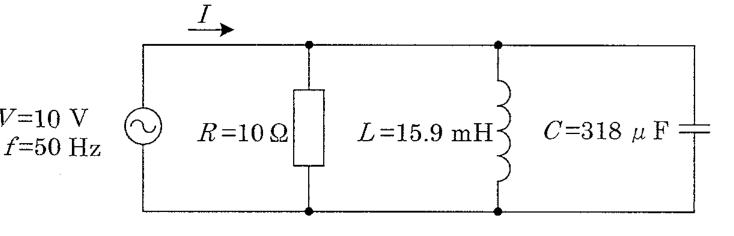
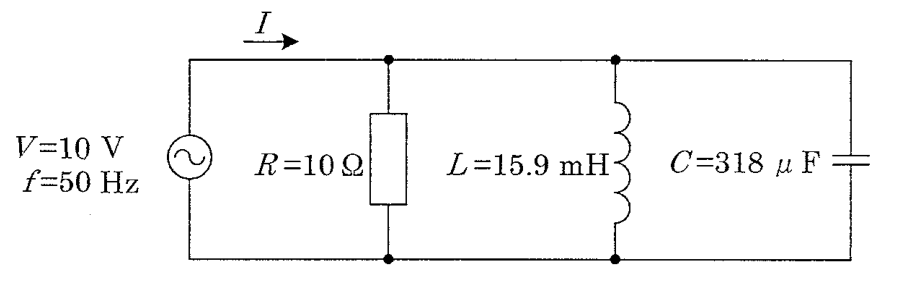
工場板金と金属熱処理の原文7問と回路図2点を修正

Changed region(s): [[0.0, 0.0, 0.9891, 0.9195]]

diff --git a/__tests__/questions/kinzoku-netsushori2-2024.test.ts b/__tests__/questions/kinzoku-netsushori2-2024.test.ts
@@ -32,7 +32,7 @@ describe("金属熱処理2級2024年度前期", () => {
     });
     expect(choiceDisplayLabel("kinzoku-netsushori2", "エ")).toBe("ニ");
   });
-  it("図3点と公式正答に疑義があるB群6の本文・正答を保持する", () => {
+  it("図3点と原本PDF4ページのB群6の選択肢・正答を保持する", () => {
     expect(questions.filter(q => q.hasImage).map(q => q.qNumber)).toEqual([41, 48, 49]);
     for (const q of questions) for (const url of q.imageUrls ?? []) {
       const bytes = readFileSync(`public${url}`);
@@ -40,8 +40,9 @@ describe("金属熱処理2級2024年度前期", () => {
       expect(bytes.subarray(8, 12).toString()).toBe("WEBP");
     }
     expect(questions[30].officialAnswerNumber).toBe("ハ");
-    expect(questions[30].choices?.エ).toBe("処理後、水冷によって硬化する。");
-    expect(questions[30].explanation).toContain("公式本文・公式正答を保持");
+    expect(questions[30].choices?.ウ).toBe("アルミニウムやクロムよりもニッケルやコバルトを含む鋼の方が硬化する。");
+    expect(questions[30].choices?.エ).toBe("窒化処理後、焼戻しを必要としない。");
+    expect(questions[30].answer).toBe("ウ");
   });
   it("同期・遅延ローダー、資格一覧と構造化データに接続する", async () => {
     expect(QUESTIONS_BY_EXAM["kinzoku-netsushori2"]).toEqual(KINZOKU_NETSUSHORI2_QUESTIONS);
